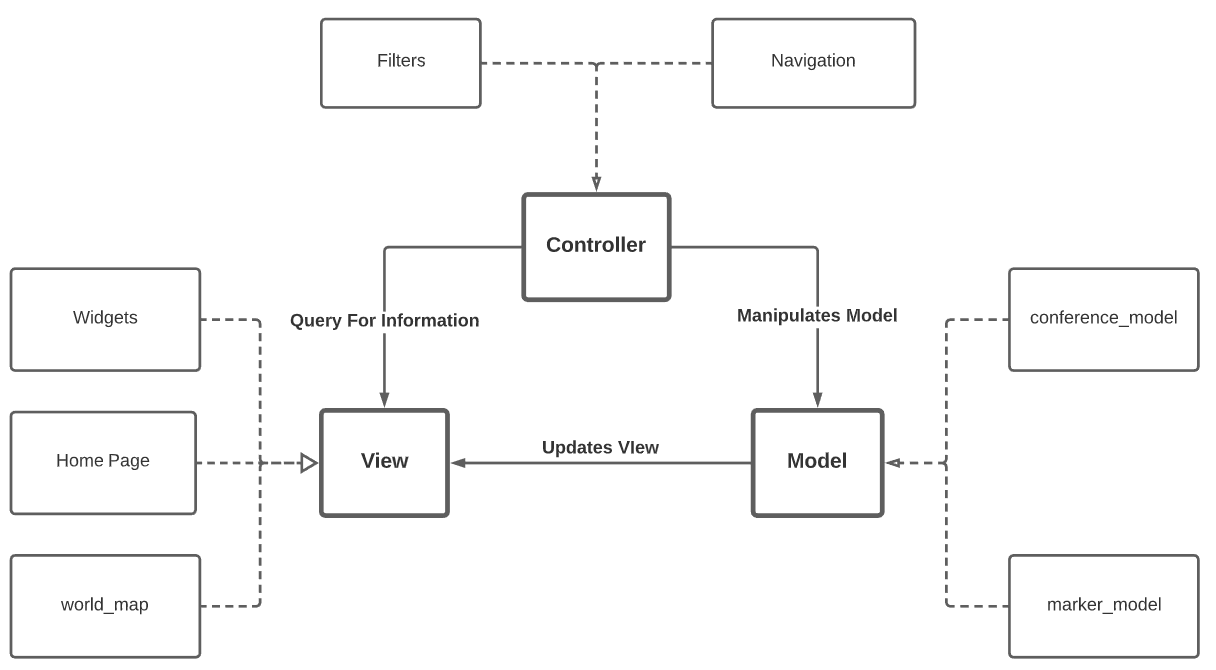
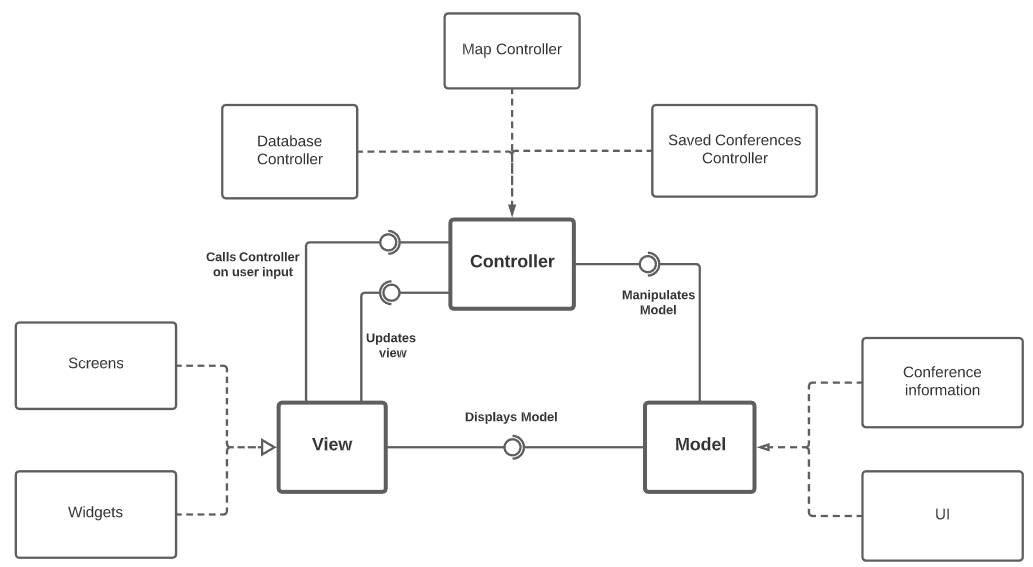
Updated diagrams and added Test Planning

diff --git a/docs/README.md b/docs/README.md
@@ -427,13 +427,17 @@ Use cross-links to the code repository and only embed real fragments of code whe
 ---
 ## Test
 
-There are several ways of documenting testing activities, and quality assurance in general, being the most common: a strategy, a plan, test case specifications, and test checklists.
+To ensure the application is working properly, we have decided to add Unit Tests and automated acceptance tests using gherkin.
 
-In this section it is only expected to include the following:
-* test plan describing the list of features to be tested and the testing methods and tools;
-* test case specifications to verify the functionalities, using unit tests and acceptance tests.
- 
-A good practice is to simplify this, avoiding repetitions, and automating the testing actions as much as possible.
+Unit Tests are used to verify the expected output after the user interacts with the application and have been implemented using the `flutter_test` dependency.
+
+We have currently not implemented any automated acceptance tests using gherkin.
+
+The planned features to be tested are the following:
+
+- Saved Conferences Local Database persistent data storage.
+- Conference filtering works accordingly.
+- Pressing a Conference in Saved Conferences Menu redirects to the world map with the chosen conference centered.
 
 ---
 ## Configuration and change management
@@ -455,12 +459,29 @@ For this project, we are using Github Projects. You can see our board using the 
 
 
 ### Sprint Reviews
-##### First Sprint
+#### First Sprint
 
-- First user story, which contains:
-    - Added Main Menu
-    - Added World Map
-    - Added pinpoints in World Map with conferences. This functionality is currently hard coded.
+##### User Story 1
+*As a user, I want to open up the map, so that I can see all the available conferences next to me.*
+* Added Main Menu
+* Added World Map
+* Added pinpoints in World Map with conferences. This functionality is currently hard coded.
+
+Sprint Effort: L
+
+#### Second Sprint
+
+##### User Story 3
+*As a user, I want to access a conference’s details, so that I can see the available information about it.*
+* When user presses one conference, the user can see the information about it.
+* There is a link that redirects the user to the webpage.
+##### User Story 5
+
+*As a user, I want to search for conferences that match my interests, so that I can better find what I'm looking for.*
+* When a user goes to the filtering menu, he can filter by type.
+* After choosing the filtered conference type, only conferences of that ype will appear on map.
+##### Miscellaneous
+* Conferences are now read from a JSON file.
 
 Sprint Effort: L
 
